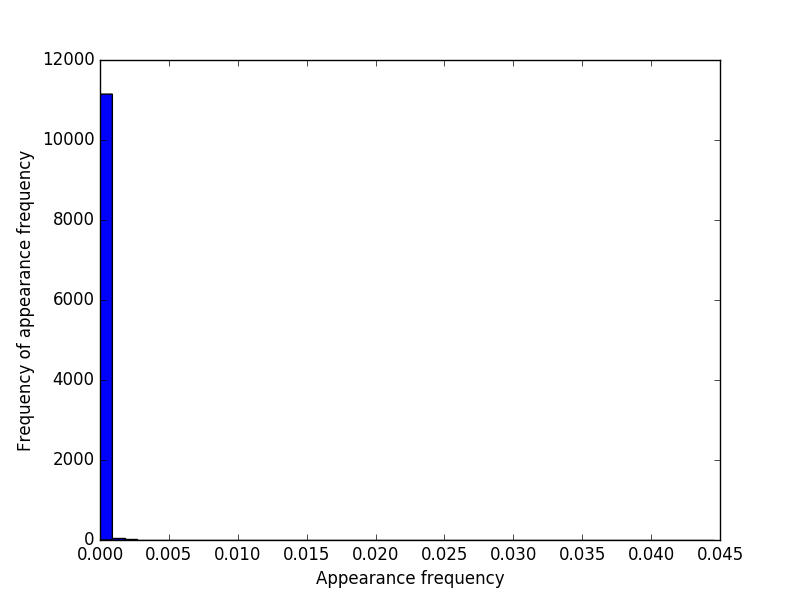
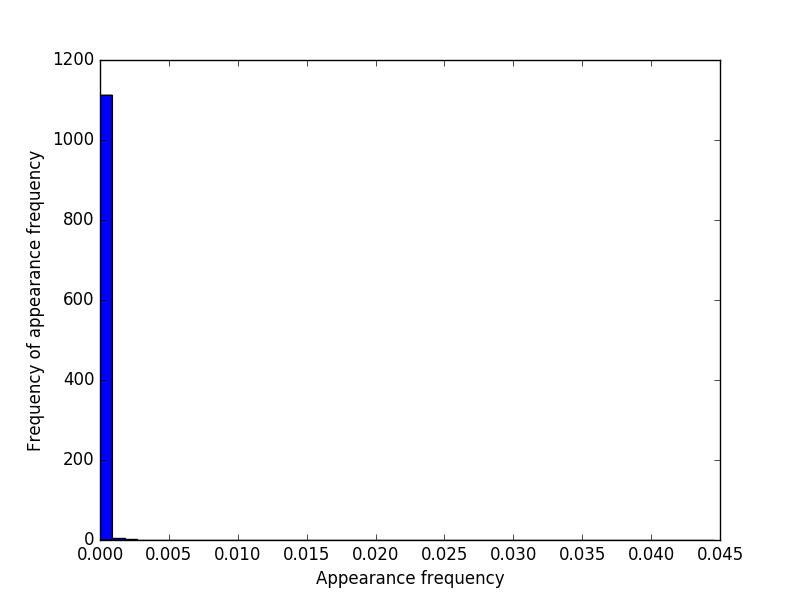
p38 processing p38 processing p38 processing p38 processing p38 processing p38 processing p38 processing p38 processing p38 processing p38 processing p38 processing p38 processing p38 processing p38 processing p38 processing p38 processing p38 processing p38 processing p38 processing p38 processing 

diff --git a/p38.py b/p38.py
@@ -48,7 +48,7 @@ def plot_Histgram(words_counter):
 	plt.xlabel("Appearance frequency")
 	plt.ylabel("Frequency of appearance frequency")
 	# plot
-	plt.hist(freq, bins = 50)
+	plt.hist(freq, bins = 50, normed = True)
 	# save as png
 	plt.savefig("Histgram_of_Appearance_Frequency.png")
 
